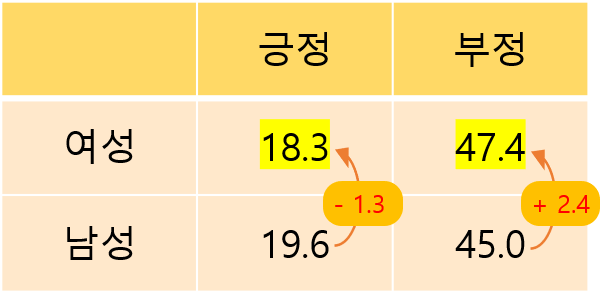
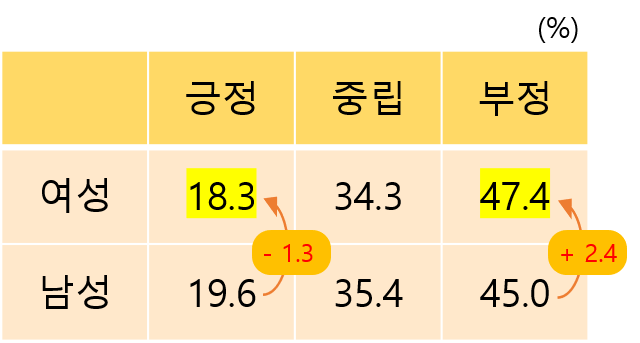
add %

diff --git a/web/index.html b/web/index.html
@@ -208,14 +208,14 @@
         </div>
         <div class="sec-09">
             <div class="wrap">
-                <h4>여성 남성 <em class="c01">긍정적</em> 언급 연도별 추이</h4>
+                <h4>여성 남성 <em class="c01">긍정적</em> 언급 연도별 추이 (%)</h4>
                 <canvas id="sec-09-chart"></canvas>
                 <p>남성의 긍정적 언급이 여성보다 많고 연도별로 긍정적 언급이 늘어나고있음</p>
             </div>
         </div>
         <div class="sec-10">
             <div class="wrap">
-                <h4>여성 남성 <em class="c01">부정적</em> 언급 연도별 추이</h4>
+                <h4>여성 남성 <em class="c01">부정적</em> 언급 연도별 추이 (%)</h4>
                 <canvas id="sec-10-chart"></canvas>
                 <p>여성의 부정적 언급이 남성보다 많고 부정적언급빈도수가 최신일수록 줄어들고 있긴 하지만 더딤을 알 수 있다. 의식이 개선되고 있음으로 보이지만 더욱더 노력해 평등한 언론보도를
                     희망한다.</p>
